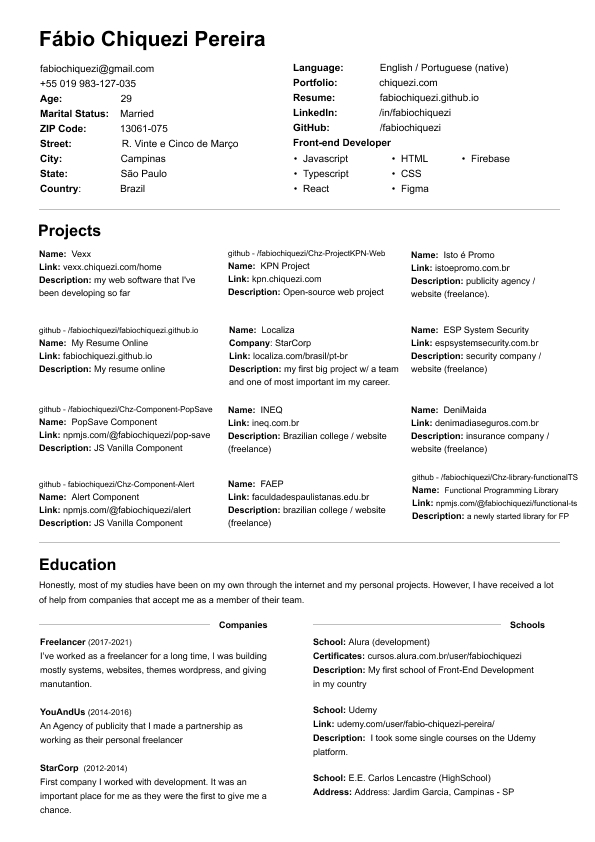
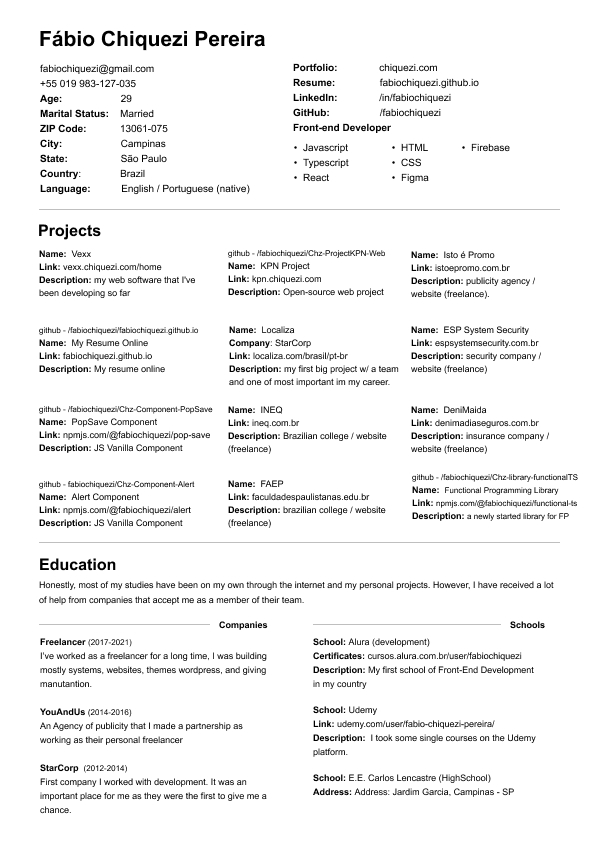
updt

diff --git a/index.html b/index.html
@@ -37,10 +37,10 @@
                         <b>ZIP Code:</b>
                         <span>13061-075</span>
                     </li>
-                    <li>
+                    <!-- <li>
                         <b>Street:</b>
                         <span>R. Vinte e Cinco de Março</span>
-                    </li>
+                    </li> -->
                     <li>
                         <b>City:</b>
                         <span>Campinas</span>
@@ -53,18 +53,18 @@
                         <b>Country:</b>
                         <span>Brazil</span>
                     </li>
-                </ul>
-            </div>
-            <div class="block">
-                <ul>
                     <li>
                         <b>Language:</b>
                         <span>English / Portuguese (native)</span>
                     </li>
-                    <li>
-                        <b>Portfolio:</b>
-                        <span>chiquezi.com</span>
-                    </li>
+                </ul>
+            </div>
+            <div class="block">
+                <ul>
+                    <!-- <li>
+                        <b>Language:</b>
+                        <span>English / Portuguese (native)</span>
+                    </li> -->
                     <li>
                         <b>Resume:</b>
                         <span>fabiochiquezi.github.io</span>
@@ -75,7 +75,11 @@
                     </li>
                     <li>
                         <b>GitHub:</b>
-                        <span> /fabiochiquezi</span>
+                        <span>/fabiochiquezi</span>
+                    </li>
+                    <li>
+                        <b>NPM:</b>
+                        <span>/~fabiochiquezi</span>
                     </li>
                 </ul>
                 <ul class="front-skils">
